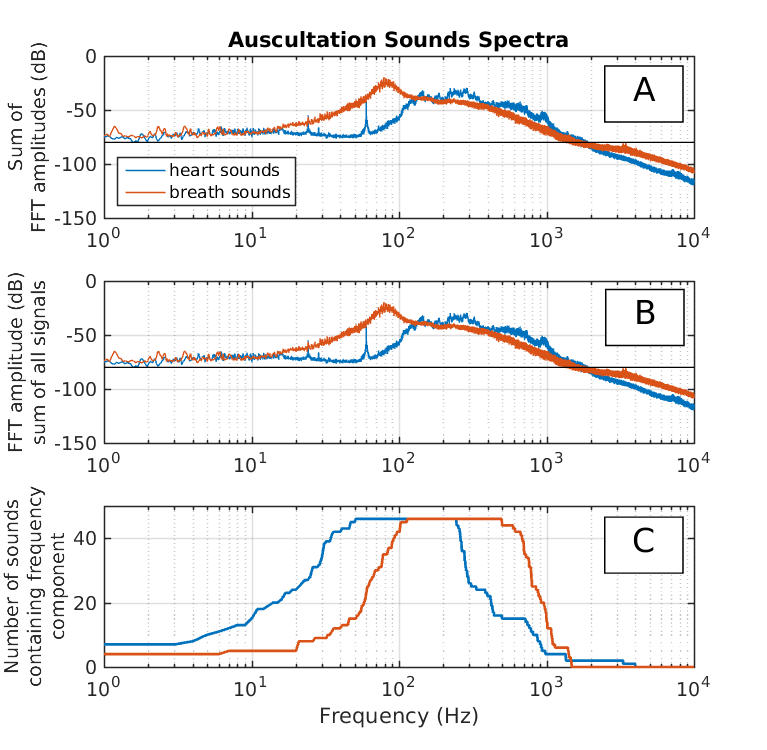
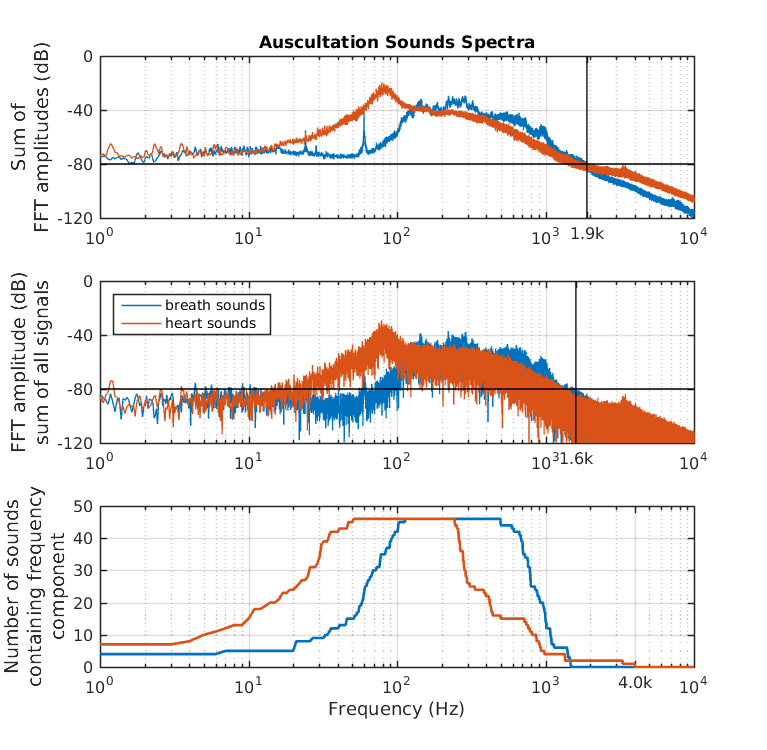
Microprocessor requirements

diff --git a/design.tex b/design.tex
@@ -5,39 +5,41 @@ What are our system specs?
 
 \section{System Overview}
 Our wireless stethoscope consists of seven subsystems in order to transfer the auscultation sound signal to a speaker (Fig~\ref{fig:sys_overview}), they are
-\begin{enumerate}
-	\item Sensor,
+\begin{itemize}
+	\item Signal sensor,
 	\item Signal amplification,
 	\item Input circuitry,
 	\item Signal processing,
 	\item Wireless transmission,
 	\item Wired transmission,
 	\item System power.
-\end{enumerate}
-The sensor consists of a conventional stethoscope head coupled to a microphone, which transforms the sound signal into a voltage signal. This signal is too small to drive any circuitry directly, so it is passed through a signal amplification stage, which results in a bipolar signal. After amplification the signal is passed through input circuitry which introduces a 1.65V offset and limits the voltage to within the maximum tolerable values of the micro-controller in the next stage. This offset is required to transform the signal from bipolar to unipolar, as the micro-controller can not read negative voltages. The micro-controller then performs signal processing in the form of a digital filter, so that it will have the same sound characteristics as a conventional stethoscope. Once processed the signal is transmitted to a Blue-tooth module which transmits the data to a Blue-tooth speaker. In addition an audio jack is available to plug in a speaker locally. All these subsystems are powered by a 9V power source, which can be switched between battery and AC-DC wall adapter operation.
+\end{itemize}
 
 \begin{figure}[!ht]
 	\centering
-	\fbox{
-		\includegraphics[resolution=120, width=375px, height=375px]{sys_overview.png}
-	}
+	
+		\includegraphics[resolution=120, width=315px, height=315px]{sys_overview.png}
+	
 	\caption{System overview}
 	\label{fig:sys_overview}
 \end{figure}
 
-\section{Maximum Sound Frequency}
+The sensor consists of a conventional stethoscope head coupled to a microphone, which transforms the sound signal into a voltage signal. This signal is too small to drive any circuitry directly, so it is passed through a signal amplification stage, which results in a bipolar signal. After amplification the signal is passed through input circuitry which introduces a 1.65V offset and limits the voltage to within the maximum tolerable values of the micro-controller in the next stage. This offset is required to transform the signal from bipolar to unipolar, as the micro-controller can not read negative voltages. The micro-controller then performs signal processing in the form of a digital filter, so that it will have the same sound characteristics as a conventional stethoscope. Once processed the signal is transmitted to a Blue-tooth module which transmits the data to a Blue-tooth speaker. In addition an audio jack is available to plug in a speaker directly. All these subsystems are powered by a 9V power source, which can be switched between battery and an AC-DC wall adapter.
+
+\section{Maximum Sound Frequency} \label{max-sound-freq}
 In order to design our system we must determine what is the maximum sound frequency $f_{max}$ that it needs to measure. This frequency affects the design of the low pass filter and the sampling frequency needed for Analog to Digital Conversion. A lower $f_{max}$ results in a lower sampling frequency, which allows the microprocessor to carry out more computations per sample, and thus allows for higher order digital filters to be implemented. Higher order filters give greater flexibility in digitally manipulating the sound signal, and so would allow us to more accurately reproduce the sound characteristics of a conventional stethoscope.
 
 An $f_{max}$ of 20kHz would work as this is the threshold of human hearing\cite[p.~163]{Stuart2011}, however it has been stated that the majority of heart and lung sounds occur at lower frequencies, within the range 37.5-1kHz\cite{Abella1992}. In order to determine $f_{max}$ 100 heart and lung sounds were analysed for their spectral content. Sound files were taken from an electronic resource used to train medical students in auscultation\cite{Coviello2014}, and three analyses were performed using MATLAB. 
 
 The first analysis simply took a Fast Fourier Transform (FFT) of the sounds, summed the amplitudes and defined $f_{max}$ as the frequency at which this sum dropped below -80dB. In the second analysis all the sound signals were summed together, an FFT was performed on the resulting signal, and $f_{max}$ was defined to be the frequency at which the amplitude dropped below -80dB. In the third analysis the significant frequency components of each sound was calculated. Significant frequencies were defined as the range which contained 99.9\% of the signal energy, where energy is the sum of the squared FFT amplitudes. To calculate significant frequencies an iterative algorithm was used. The algorithm begins with a set that contains the signal's dominant frequency, it then adds to this set the next highest or lowest frequency, which ever has the larger FFT amplitude. The energy content of the set is compared with the energy of the sound, and the process continues until the set contains at least 99.9\% of the energy. Finally we took $f_{max}$ to be the largest frequency with at least one sound in which $f_{max}$ was considered significant. 
 
-Analysis 1, 2, and 3 gave $f_{max}$ values 1.5kHz, 2kHz, and 3.5kHz respectively (Fig~\ref{fig:ausc_spectra}), with the most conservative estimate of 3.5kHz coming from the energy content analysis. Thus in order to capture all the heart and lung sounds experienced through a stethoscope, our system needs to handle sound frequencies up to at least 3.5kHz. 
+Analysis 1, 2, and 3 gave $f_{max}$ values 1.9kHz, 1.9kHz, and 4.0kHz respectively (Fig~\ref{fig:ausc_spectra}). If we use the most conservative result then our stethoscope needs to be able to measure and process frequencies up to at least 4.0kHz in order to capture all heart and lung sounds.
+
 \begin{figure}[htb]
 	\centering
-	\fbox{
-		\includegraphics[width=120mm]{auscultation_spectra3.png}
-	}
+	% \fbox{
+		\includegraphics[width=120mm]{auscultation_spectra.png}
+	% }
 	\caption{Frequency spectra of auscultation sounds}
 	\label{fig:ausc_spectra}
 \end{figure}
@@ -48,8 +50,10 @@ How we coupled microphone to stethoscope \\
 Microphone circuit
 
 \section{Signal Amplification}
-Instrumentation amplifier
-Low pass filter
+\subsection{Operational Amplifiers}
+
+Instrumentation amplifier \cite{Franco2015}
+Low pass filter \cite[p.~279]{Horowitz1989}
 Amplifier
 
 \section{Input Circuitry}
@@ -58,7 +62,39 @@ DC blocker to block out any DC ofset from amplification stage\\
 clipping circuit to protect 0-3.3V range \\
 
 \section{Signal Processing}
-Why we needed and chose the dsPIC33FJ
+A micro-controller processes the sound signal using Infinite Impulse Response (IIR) and Finite Impulse Response (FIR) digital filters. This signal processing is used to filter out unstable feedback frequencies and to reproduce the sound characteristics of a conventional stethoscope. Unstable feedback occurs when the microphone sensor picks up the sound played through the speaker. It happens at specific resonant frequencies which depend on the length of the coupling tube, stethoscope diaphragm, and microphone (section \ref{feedback-freq}). If left untreated these unstable frequencies can grow in amplitude until the user can only hear a large squealing sound from the device, making auscultation impossible. The micro-controller further processes the signal in order to negate the effect that having a smaller coupling tube has on the transmitted sound. The tube length of the original stethoscope is approximately 50cm, while our design has a coupling tube of only 3cm. This difference in length changes the sound transmission properties of the tube, dampening sound frequencies by a different amounts. Negating this ``colouration'' effect helps reproduce the type of sounds doctors currently listen for with a conventional stethoscope.
+
+\subsection{Microprocessor Requirements}
+In order to decide which microprocessor to use we need to first establish the minimum requirements. We consider the bus size, speed, and the amount of working memory needed to implement the digital filters.
+
+Bus sizes for microprocessors generally come in 8, 16, and 32-bit. This bus size determines the bit-depth, which is number of bits stored per sample. A larger bit-depth will require more memory to store samples, however it will suffer less quantization noise, which is the result of truncation error inherent in ADC. For our system we used 16 bit bit-depth because that's the same used in CDs~\cite[p.~27]{Schroder2011}, and we assumed CD audio quality would be sufficient.
+
+To determine how fast the processor needs to be we estimate how many Million Instructions Per Second (MIPS) that it has to execute. To perform this calculation we need the sampling frequency ($F_s$) and the order of the digital filter we wish to implement ($N$). We take $F_s$ to be 40kHz, the Nyquist frequency associated with 20kHz sounds. Although we require to capture sounds only up to 4kHz (Section~\ref{max-sound-freq}) we use the more conservative figure for flexibility to change the design in the future. The order of the filter $N$ was unknown at the time of purchasing the micro-controller, hence an estimate of $N=100$ is used, as our past experience with designing low pass digital filters found this to be a conservative estimate. $N^{th}$ order digital filters are typically calculated as~\cite[p.~164]{Mitra2011}
+\begin{equation}
+y[n] = p_0 x[n] + p_1 x[n-1] + \cdots + p_N x[n-N] - d_1 y[n-1] - \cdots - d_n y[n-N]
+\label{eq:filter}
+\end{equation}
+where $y$ is the sampled output signal, $x$ is the sampled input signal, and $d_i, p_i$ are constant filter coefficients. This requires $2N$ additions and $2N$ multiplications, for a total of $4N$ instructions per output sample $y[n]$. In addition to the digital filter the controller must also transmit 16 bits of data per sample to the Blue-tooth module, giving a required speed of $(16+4N)F_s=(16+400)40\cdot10^3=16.64$ MIPS. Thus if we round up for safety then we require a processor capable of at least 17 MIPS.
+
+The amount of working memory required is calculated by noting that the filter in Eq.~\ref{eq:filter} needs to store $2(N+1)$ coefficients $p_i, d_i$, $N+1$ input signal samples $x$ and $N+1$ output signal samples $y$, for a total of $4(N+1)=404$ 16 bit values, or 808 Bytes of RAM. We round this value up to the nearest KByte and double it as a safety margin to get a minimum requirement of 2KBytes of RAM.
+
+In summary our micro-controller needs to be at least 16-bit, capable of 17 MIPS with at least 2KBytes of working memory.
+
+\subsection{Microprocessors Considered}
+Five microprocessors were considered for the system, the Arduino nano, Raspberry Pi, Blackfin processor from Analog Devices, and the dsPIC from Microchip, and were judged on six factors
+\begin{description}
+\item[Programmability:] If it can be programmed in a high level language, such as C or Python, then there's an advantage in quicker development time compared with a lower level language such as Assembly.
+\item[Interface:] How easy it to upload code to the device
+\item[Size] How large is the processor
+\item[Power Consumption] How much power does it use
+\item[Cost] How expensive is the processor
+
+\end{description}
+
+\input{./table/mcu_decision_matrix.tex}
+
+
+\subsection{Microprocessor Operation}
 Explain how code for dspic works
 
 \section{Wireless Transmission}

diff --git a/table/mcu_decision_matrix.tex b/table/mcu_decision_matrix.tex
@@ -1,0 +1,19 @@
+\begin{table}[htbp]
+\caption{Microcontroller decision matrix}
+\begin{center}
+\begin{tabular}{lccccc}
+\hline
+\textbf{Consideration} & \textbf{weighting} & \textbf{Arduino} & \textbf{Raspberry} & \textbf{AD Blackfin} & \textbf{dsPIC} \\ 
+ & & \textbf{(nano)} & \textbf{pi} & \textbf{Blackfin} & \\
+\hline
+Programming & 7 & 10 & 10 & 10 & 10 \\ 
+Uploading & 10 & 10 & 10 & 5 & 8 \\
+Size & 8 & 5 & 5 & 10 & 10 \\
+Power & 6 & 5 & 1 & 10 & 10 \\
+Speed & 8 & 0 & 10 & 10 & 10 \\
+Cost & 8 & 10 & 9 & 8 & 9 \\ \hline
+\multicolumn{2}{r}{Total weighted score} & 320 & 368 & 404 & 442 \\ \hline
+\end{tabular}
+\end{center}
+\label{mcu-decision-matrix}
+\end{table}

diff --git a/results.tex b/results.tex
@@ -5,5 +5,5 @@ How does the stethoscope perform?
 \section{Frequency Response}
 Freq response graphs
 
-\section{Feedback}
+\section{Feedback} \label{feedback-freq}
 Problem with feedback
